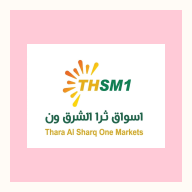
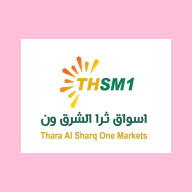
شعار بحاوية خضراء بدون إطار ذهبي + شاشة ترحيب خضراء

diff --git a/src/index.css b/src/index.css
@@ -286,22 +286,25 @@ h3 { font-size: 1.1rem; }
 /* ─── Install Overlay (Force Prompt) ─── */
 .install-overlay {
   position: fixed; top: 0; left: 0; right: 0; bottom: 0;
-  background: rgba(0,0,0,0.7); backdrop-filter: blur(8px);
+  background: rgba(0,0,0,0.6); backdrop-filter: blur(10px);
+  -webkit-backdrop-filter: blur(10px);
   z-index: 99999; display: flex; align-items: center; justify-content: center;
   padding: 1.5rem; animation: fadeIn 0.4s ease;
 }
 .install-card {
-  background: white; width: 100%; max-width: 420px;
+  background: #0a5c34; width: 100%; max-width: 420px;
   border-radius: 24px; overflow: hidden;
-  box-shadow: 0 20px 45px rgba(0,0,0,0.25);
+  box-shadow: 0 20px 60px rgba(10, 92, 52, 0.35);
   animation: slideUp 0.5s cubic-bezier(0.16, 1, 0.3, 1);
   position: relative;
 }
 .install-close-btn {
   position: absolute;
-  top: 1rem;
-  left: 1rem;
-  background: #f1f5f9;
+  top: 0.75rem;
+  left: 0.75rem;
+  background: rgba(255,255,255,0.15);
+  backdrop-filter: blur(4px);
+  -webkit-backdrop-filter: blur(4px);
   border: none;
   width: 32px;
   height: 32px;
@@ -309,90 +312,94 @@ h3 { font-size: 1.1rem; }
   display: flex;
   align-items: center;
   justify-content: center;
-  color: #64748b;
+  color: rgba(255,255,255,0.7);
   cursor: pointer;
   transition: all 0.2s ease;
   z-index: 10;
 }
 .install-close-btn:hover {
-  background: #e2e8f0;
-  color: #1e293b;
+  background: rgba(255,255,255,0.25);
+  color: white;
 }
 .install-card-inner {
-  padding: 2.25rem 2rem 2rem; text-align: center;
+  padding: 2rem 1.75rem 1.75rem; text-align: center;
 }
 .install-header-section {
   display: flex;
+  flex-direction: column;
   align-items: center;
   gap: 1rem;
-  text-align: right;
+  text-align: center;
   margin-bottom: 1.25rem;
-  border-bottom: 1px solid #f1f5f9;
-  padding-bottom: 1.25rem;
 }
 .install-header-section .install-logo {
   margin-bottom: 0;
-  width: 60px;
-  height: 60px;
-  border-radius: 14px;
-  box-shadow: 0 4px 12px rgba(18, 116, 67, 0.15);
+  width: 80px;
+  height: 80px;
+  border-radius: 20px;
+  box-shadow: 0 4px 20px rgba(0,0,0,0.15);
 }
 .install-app-info {
   display: flex;
   flex-direction: column;
-  gap: 0.15rem;
+  gap: 0.2rem;
 }
 .install-title {
-  color: #127443; font-size: 1.2rem; font-weight: 700; margin-bottom: 0;
-  text-align: right; font-family: var(--font-display);
+  color: white; font-size: 1.15rem; font-weight: 700; margin-bottom: 0;
+  text-align: center; font-family: var(--font-display);
 }
 .install-subtitle {
-  color: #64748b; font-size: 0.8rem; margin-bottom: 0;
-  text-align: right;
+  color: rgba(255,255,255,0.7); font-size: 0.78rem; margin-bottom: 0;
+  text-align: center;
 }
 .install-benefits {
-  text-align: right; background: #f8fafc; padding: 1.1rem;
-  border-radius: 16px; margin-bottom: 1.5rem;
-  border: 1px solid #f1f5f9;
+  text-align: right; background: rgba(255,255,255,0.1);
+  backdrop-filter: blur(4px);
+  -webkit-backdrop-filter: blur(4px);
+  padding: 1rem;
+  border-radius: 16px; margin-bottom: 1.25rem;
+  border: 1px solid rgba(255,255,255,0.08);
 }
 .benefit-item {
-  display: flex; align-items: center; gap: 0.75rem; margin-bottom: 0.75rem;
-  font-size: 0.8rem; font-weight: 600; color: #475569;
+  display: flex; align-items: center; gap: 0.65rem; margin-bottom: 0.6rem;
+  font-size: 0.78rem; font-weight: 500; color: rgba(255,255,255,0.85);
 }
 .benefit-item:last-child { margin-bottom: 0; }
-.benefit-icon { font-size: 1.1rem; }
+.benefit-icon { font-size: 1rem; }
 .install-instructions {
-  font-size: 0.8rem; color: #64748b; line-height: 1.6;
+  font-size: 0.8rem; color: rgba(255,255,255,0.6); line-height: 1.6;
 }
 .ios-instructions {
   text-align: right;
-  background: #f8fafc;
-  padding: 1.1rem;
+  background: rgba(255,255,255,0.1);
+  backdrop-filter: blur(4px);
+  -webkit-backdrop-filter: blur(4px);
+  padding: 1rem;
   border-radius: 16px;
-  margin-bottom: 1.5rem;
-  border: 1px solid #f1f5f9;
+  margin-bottom: 1.25rem;
+  border: 1px solid rgba(255,255,255,0.08);
 }
 .ios-instructions-title {
   font-weight: 700;
-  font-size: 0.85rem;
-  color: #334155;
+  font-size: 0.82rem;
+  color: white;
   margin-bottom: 0.6rem;
 }
 .ios-steps {
   display: flex;
   flex-direction: column;
-  gap: 0.6rem;
+  gap: 0.5rem;
 }
 .ios-step {
   display: flex;
   align-items: flex-start;
-  gap: 0.6rem;
-  font-size: 0.8rem;
-  color: #475569;
+  gap: 0.5rem;
+  font-size: 0.78rem;
+  color: rgba(255,255,255,0.75);
   line-height: 1.5;
 }
 .ios-step-num {
-  background: #127443;
+  background: rgba(255,255,255,0.2);
   color: white;
   width: 20px;
   height: 20px;
@@ -400,38 +407,42 @@ h3 { font-size: 1.1rem; }
   display: flex;
   align-items: center;
   justify-content: center;
-  font-size: 0.7rem;
+  font-size: 0.65rem;
   font-weight: 700;
   flex-shrink: 0;
   margin-top: 0.1rem;
 }
-.share-icon { font-size: 1.1rem; vertical-align: middle; color: #007aff; }
+.share-icon { font-size: 1.1rem; vertical-align: middle; color: #80cbc4; }
 .fallback-instructions {
   text-align: right;
-  background: #f8fafc;
-  padding: 1.1rem;
+  background: rgba(255,255,255,0.1);
+  backdrop-filter: blur(4px);
+  -webkit-backdrop-filter: blur(4px);
+  padding: 1rem;
   border-radius: 16px;
-  margin-bottom: 1.5rem;
-  font-size: 0.8rem;
-  color: #475569;
-  border: 1px solid #f1f5f9;
+  margin-bottom: 1.25rem;
+  font-size: 0.78rem;
+  color: rgba(255,255,255,0.75);
+  border: 1px solid rgba(255,255,255,0.08);
 }
 .fallback-instructions p:first-child {
   font-weight: 700;
-  color: #334155;
-  margin-bottom: 0.4rem;
+  color: white;
+  margin-bottom: 0.3rem;
 }
 .install-main-btn {
-  width: 100%; background: #127443; color: white; border: none;
-  padding: 0.9rem; border-radius: 14px; font-weight: 700; font-size: 0.95rem;
-  cursor: pointer; margin-bottom: 0.75rem; transition: transform 0.2s, background-color 0.2s;
-  box-shadow: 0 4px 12px rgba(18, 116, 67, 0.25);
+  width: 100%; background: white; color: #0a5c34; border: none;
+  padding: 0.85rem; border-radius: 14px; font-weight: 800; font-size: 0.9rem;
+  cursor: pointer; margin-bottom: 0.65rem; transition: transform 0.2s;
+  box-shadow: 0 4px 16px rgba(0,0,0,0.15);
+  font-family: var(--font-family);
 }
-.install-main-btn:hover { background: #0a5c34; }
+.install-main-btn:hover { background: #f0fdf4; }
 .install-main-btn:active { transform: scale(0.98); }
 .install-skip-btn {
-  background: none; border: none; color: #94a3b8; font-size: 0.8rem;
+  background: none; border: none; color: rgba(255,255,255,0.5); font-size: 0.75rem;
   cursor: pointer; text-decoration: underline;
+  font-family: var(--font-family);
 }
 
 /* ─── App Install Header Button ─── */
